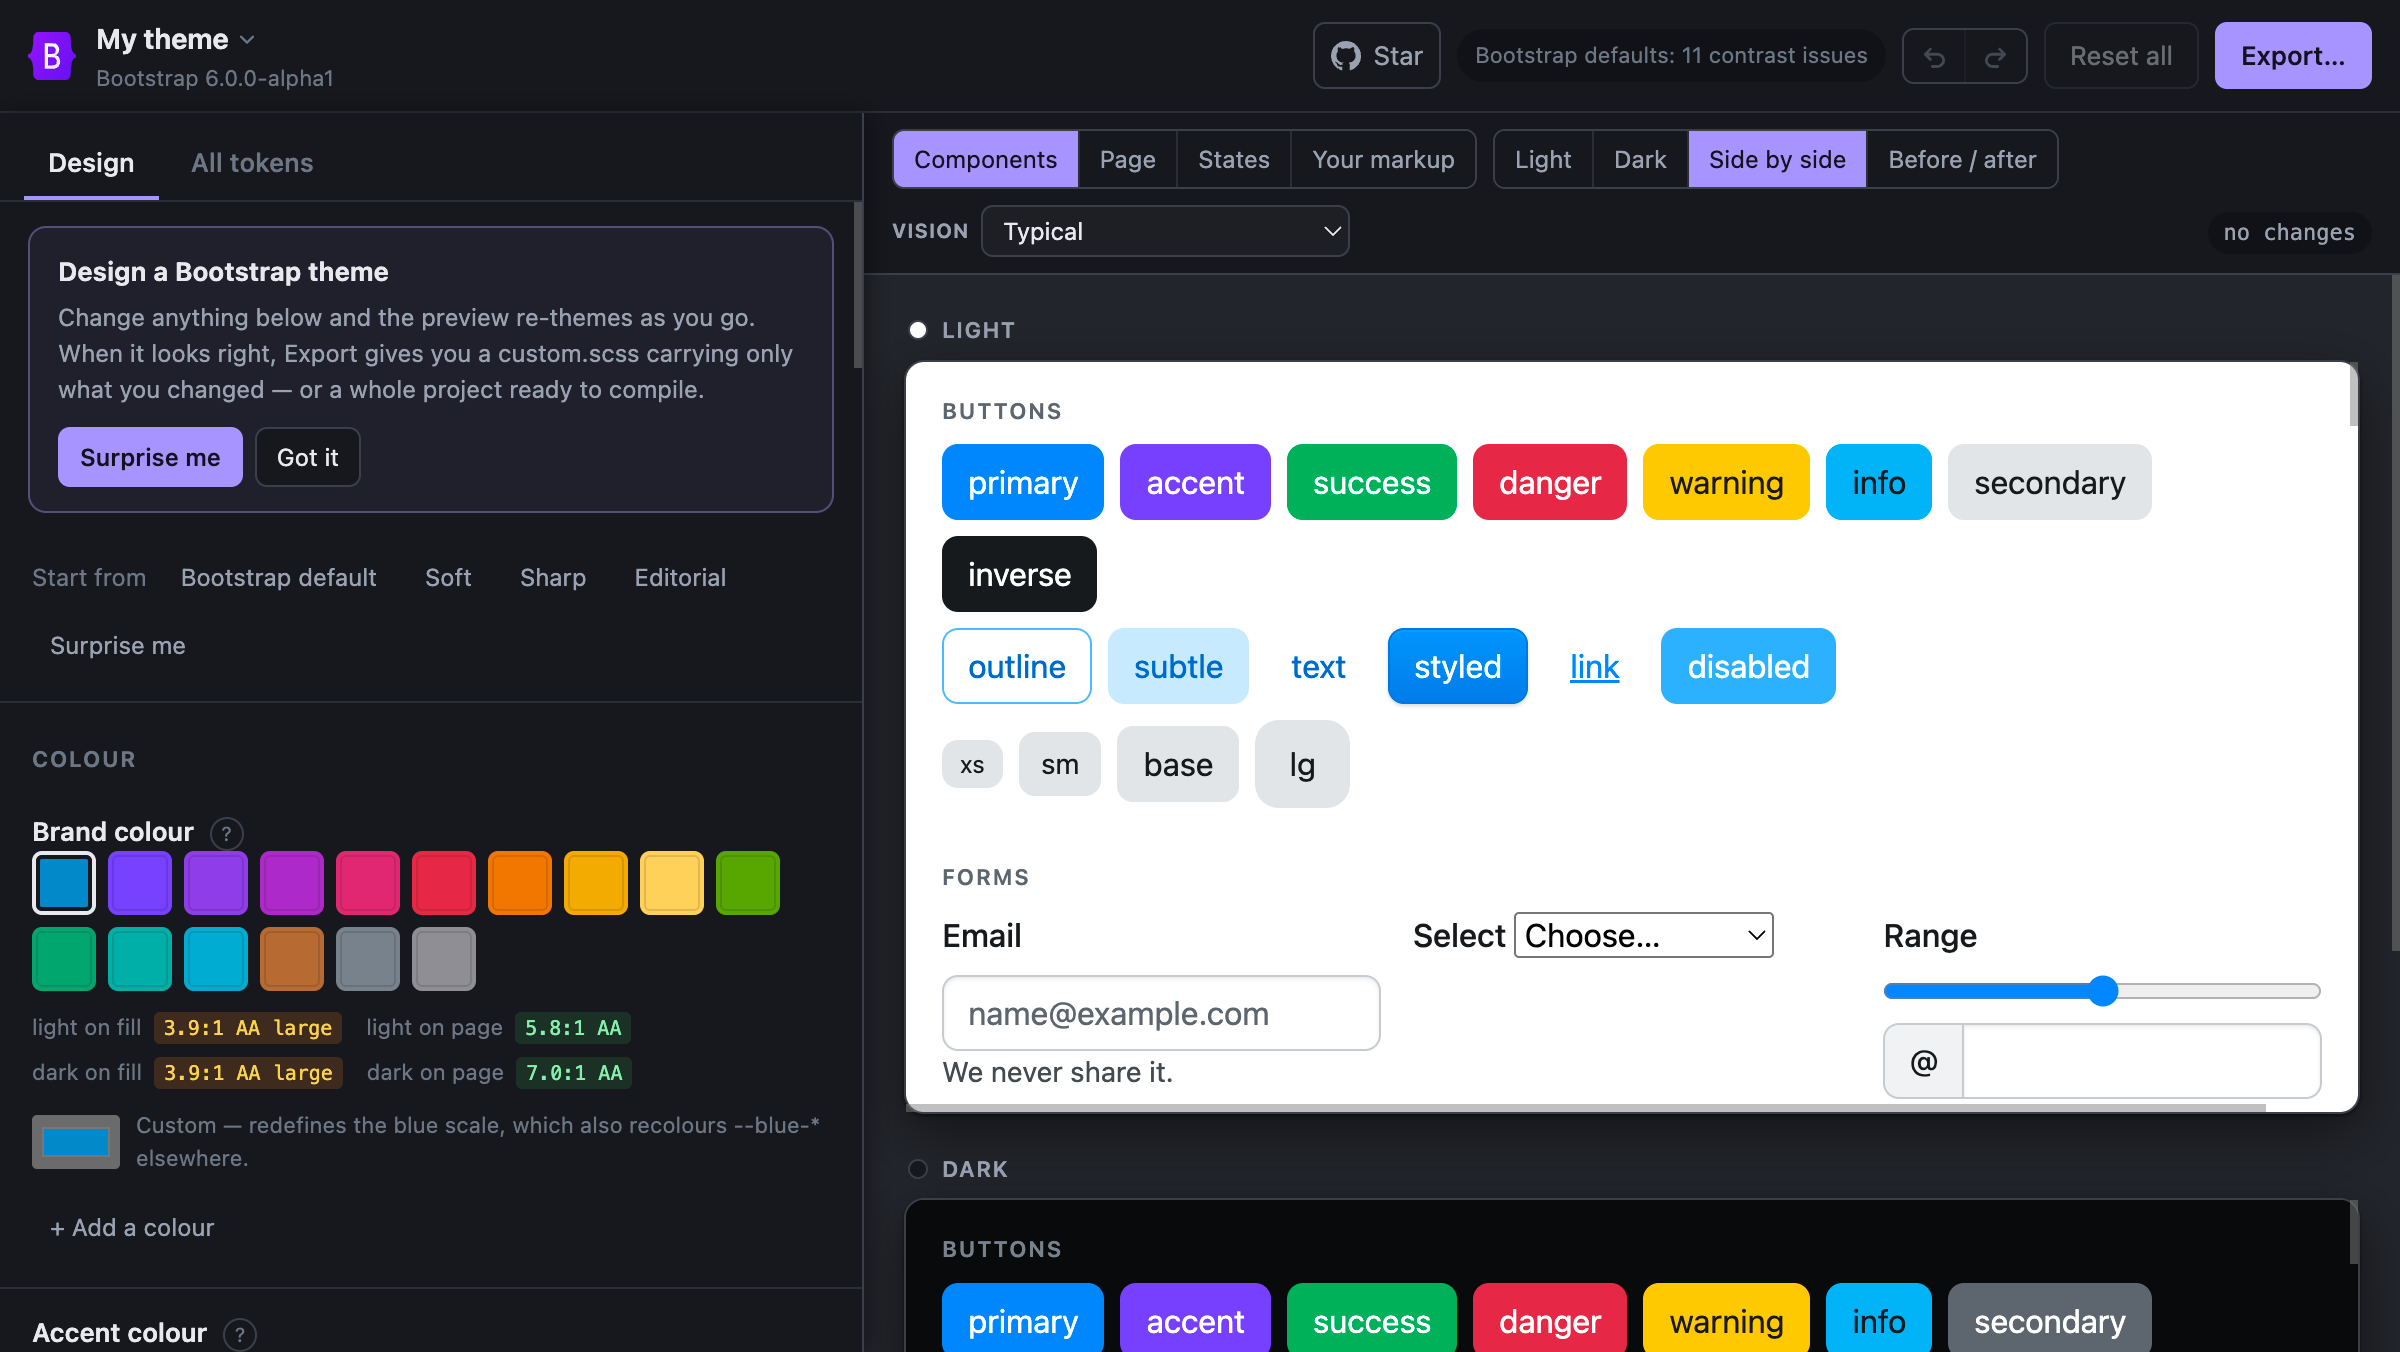
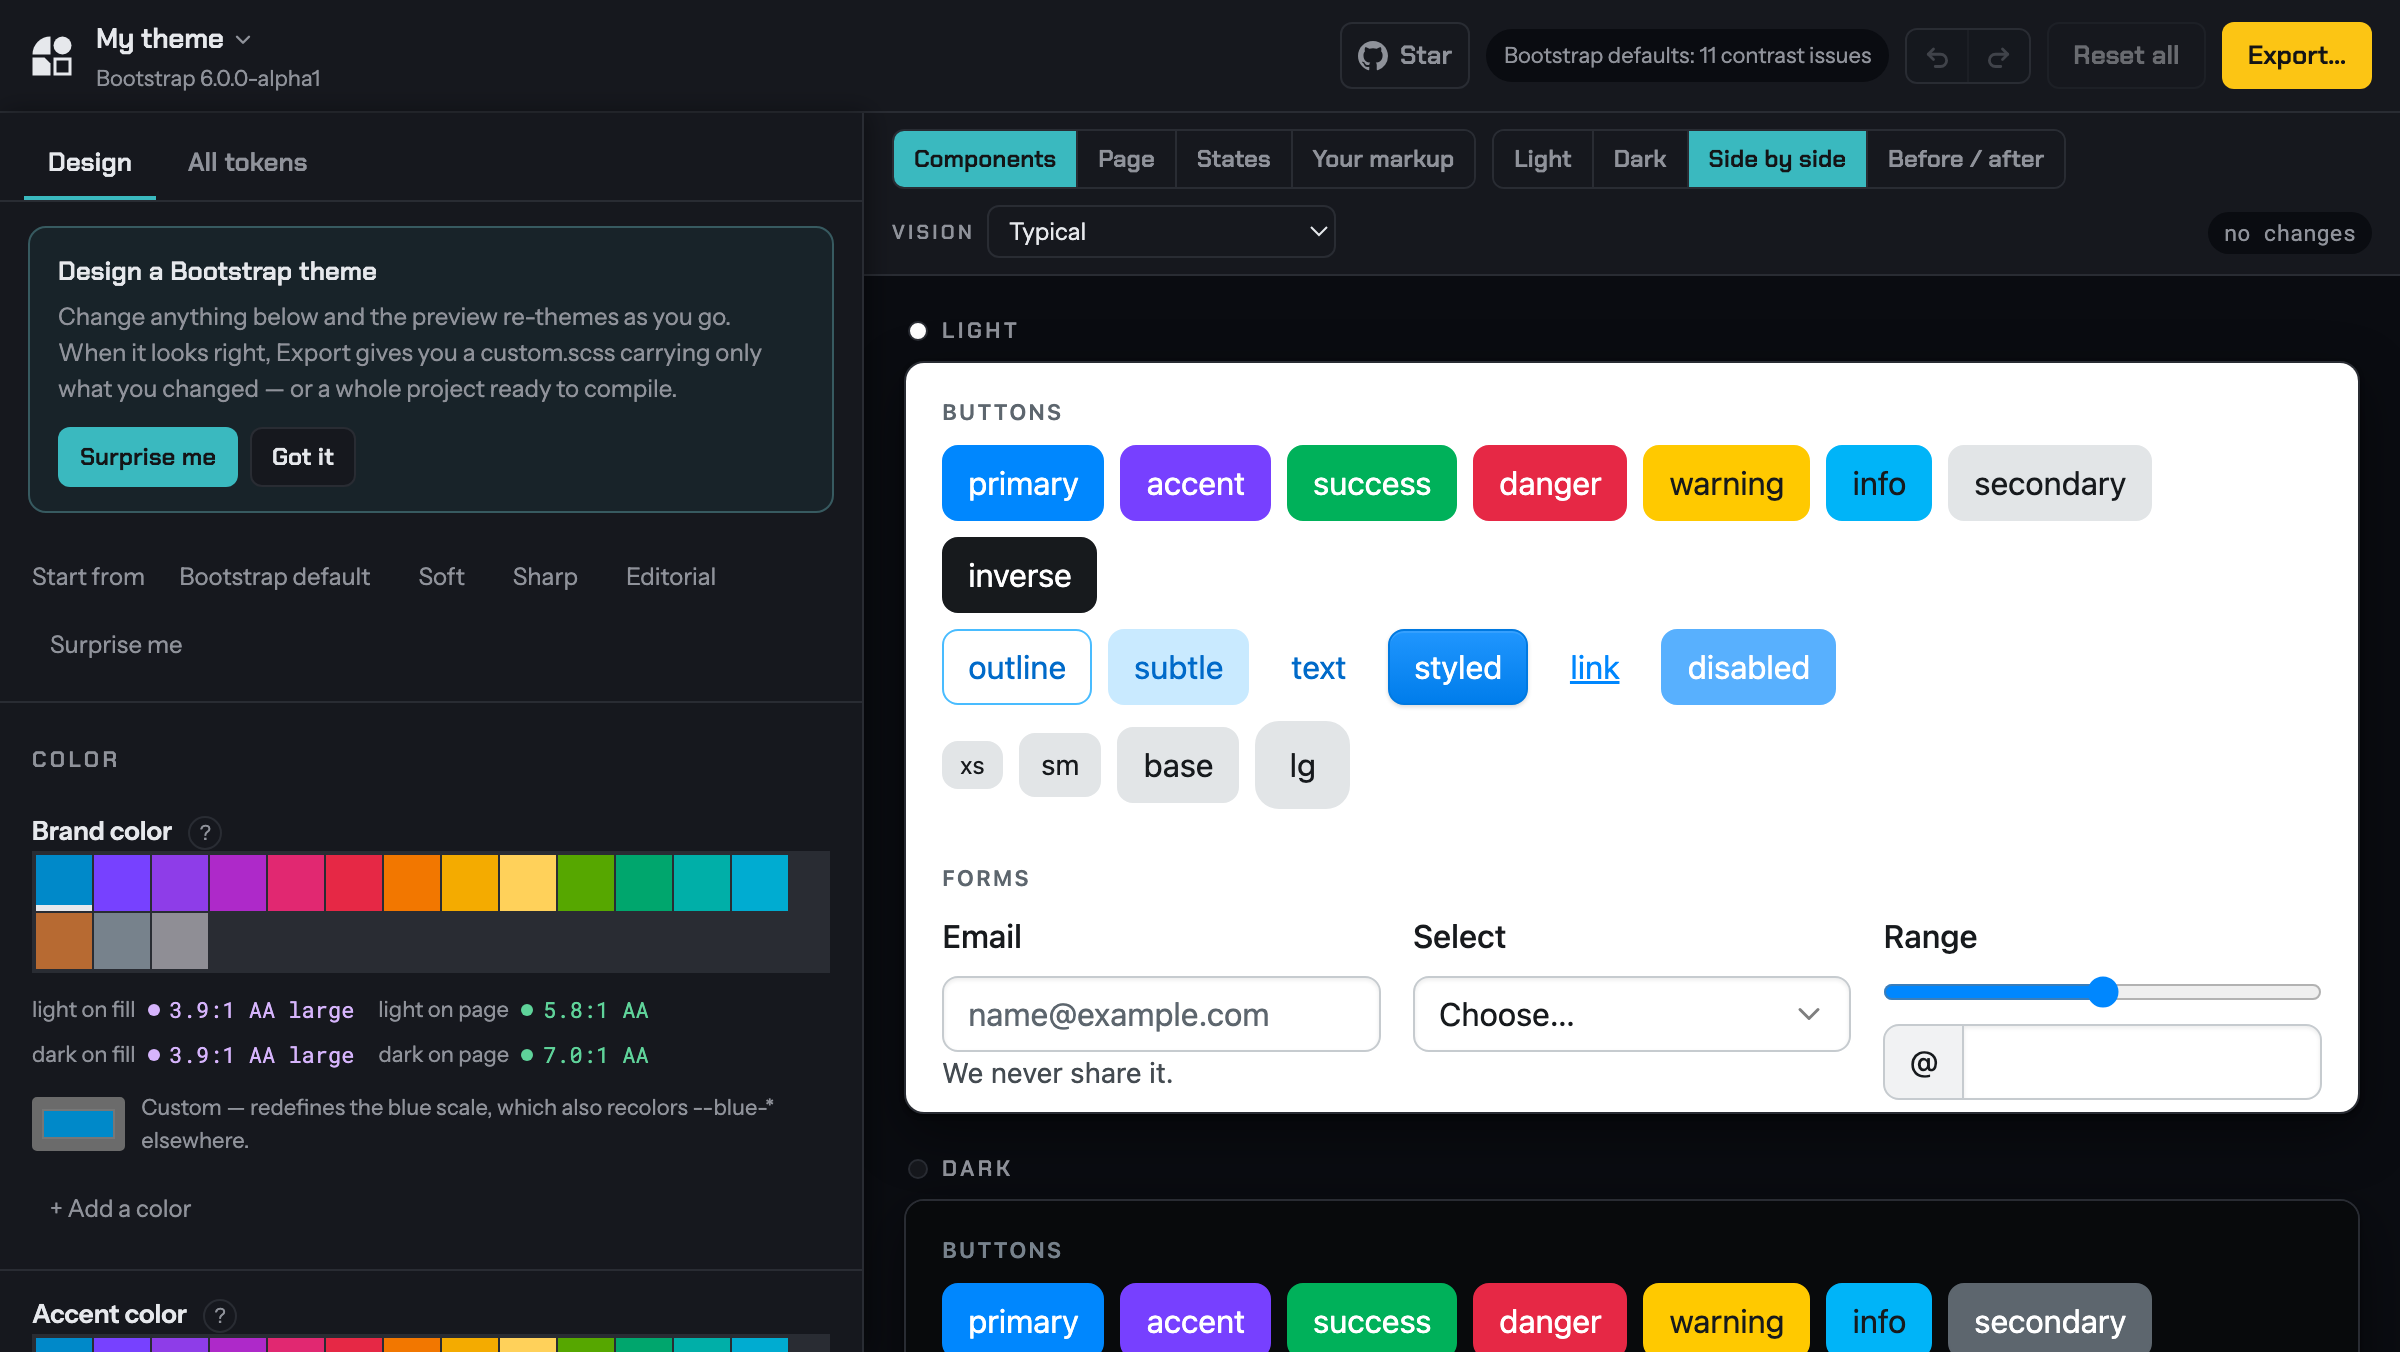
docs: README header and screenshot in the new look
The header is an SVG with a PNG fallback, and replaces Bootstrap's logo. The
badges take the same colours as the header. The screenshot is re-captured from
the app as it now looks, at the same 1200 × 676 frame at 2x.

diff --git a/README.md b/README.md
@@ -1,8 +1,4 @@
-<p align="center">
-  <a href="https://github.com/twbs/bootstrap/tree/v6-dev">
-    <img src="web/vendor/bootstrap-logo-shadow.png" alt="Bootstrap logo" width="200" height="165">
-  </a>
-</p>
+<p align="center"><picture><source srcset=".github/header.svg" type="image/svg+xml"><img src=".github/header.png" width="830" alt="Bootstrap Tokens: Bootstrap as portable design tokens, and a theme builder that writes them."></picture></p>
 
 <h3 align="center">bootstrap-tokens</h3>
 
@@ -25,9 +21,9 @@
 </p>
 
 <p align="center">
-  <a href="https://github.com/julien-deramond/bootstrap-tokens/actions/workflows/ci.yml"><img src="https://github.com/julien-deramond/bootstrap-tokens/actions/workflows/ci.yml/badge.svg" alt="CI status"></a>
-  <a href="https://julien-deramond.github.io/bootstrap-tokens/"><img src="https://img.shields.io/badge/theme%20builder-live-7952b3.svg" alt="Theme Builder, live"></a>
-  <a href="LICENSE"><img src="https://img.shields.io/badge/license-MIT-blue.svg" alt="MIT license"></a>
+  <a href="https://github.com/julien-deramond/bootstrap-tokens/actions/workflows/ci.yml"><img src="https://img.shields.io/github/actions/workflow/status/julien-deramond/bootstrap-tokens/ci.yml?branch=main&style=flat&label=CI&labelColor=16181E&color=3AB9BF" alt="CI status"></a>
+  <a href="https://julien-deramond.github.io/bootstrap-tokens/"><img src="https://img.shields.io/badge/theme%20builder-live-3AB9BF?style=flat&labelColor=16181E" alt="Theme Builder, live"></a>
+  <a href="LICENSE"><img src="https://img.shields.io/badge/license-MIT-2D7579?style=flat&labelColor=16181E" alt="MIT license"></a>
 </p>
 
 <p align="center">
